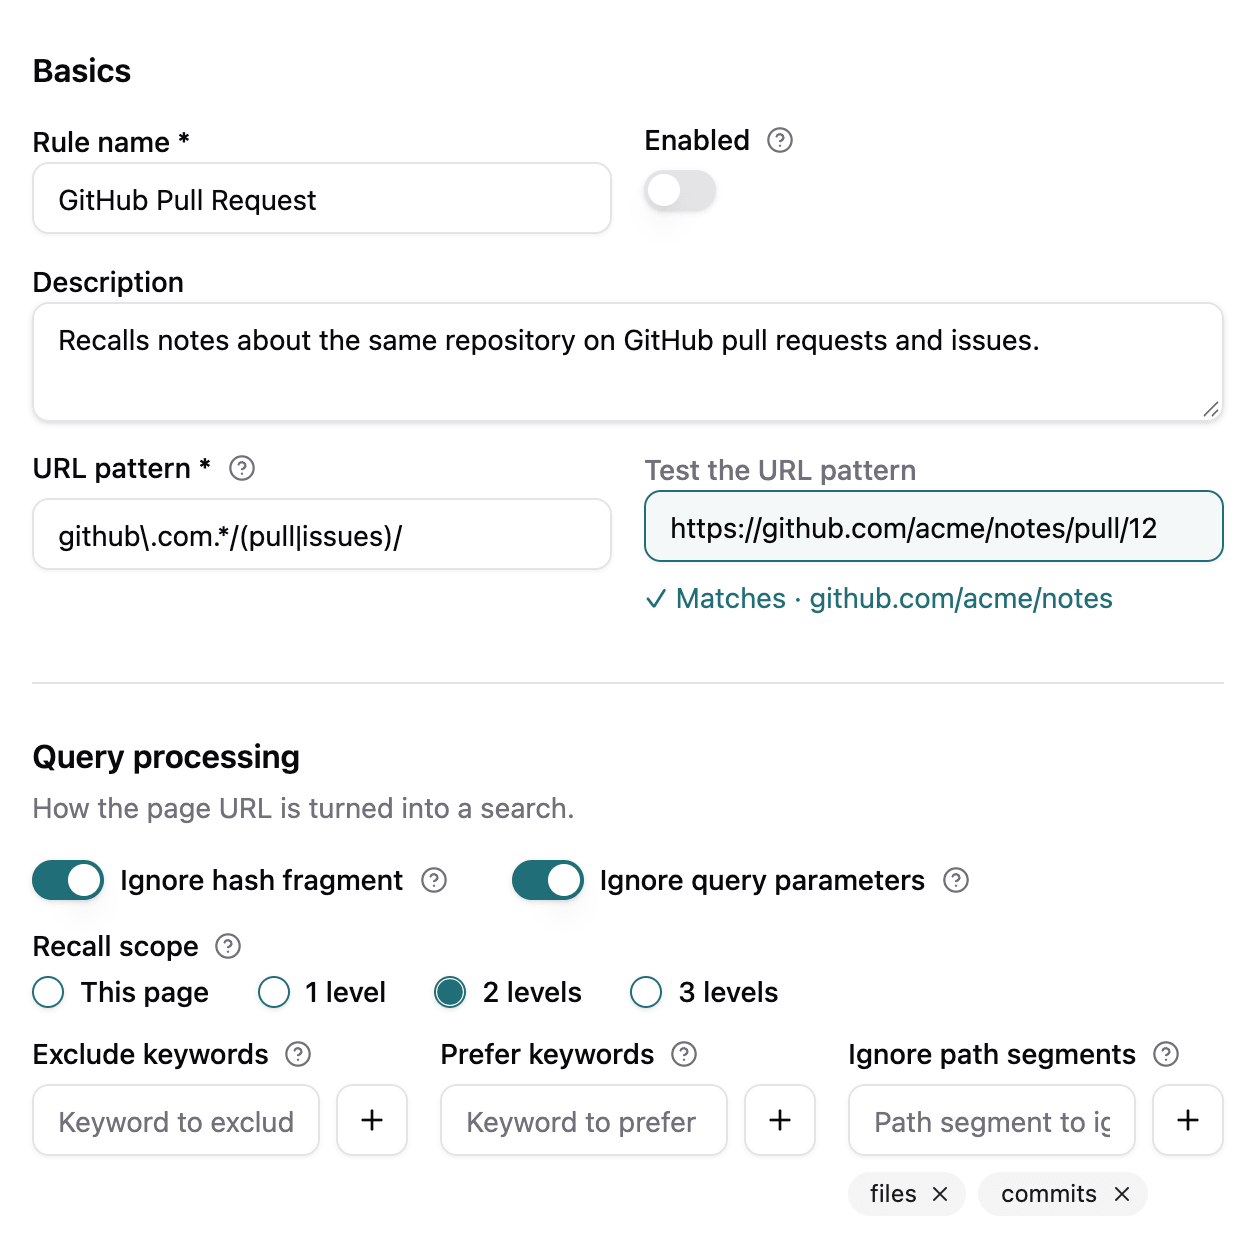
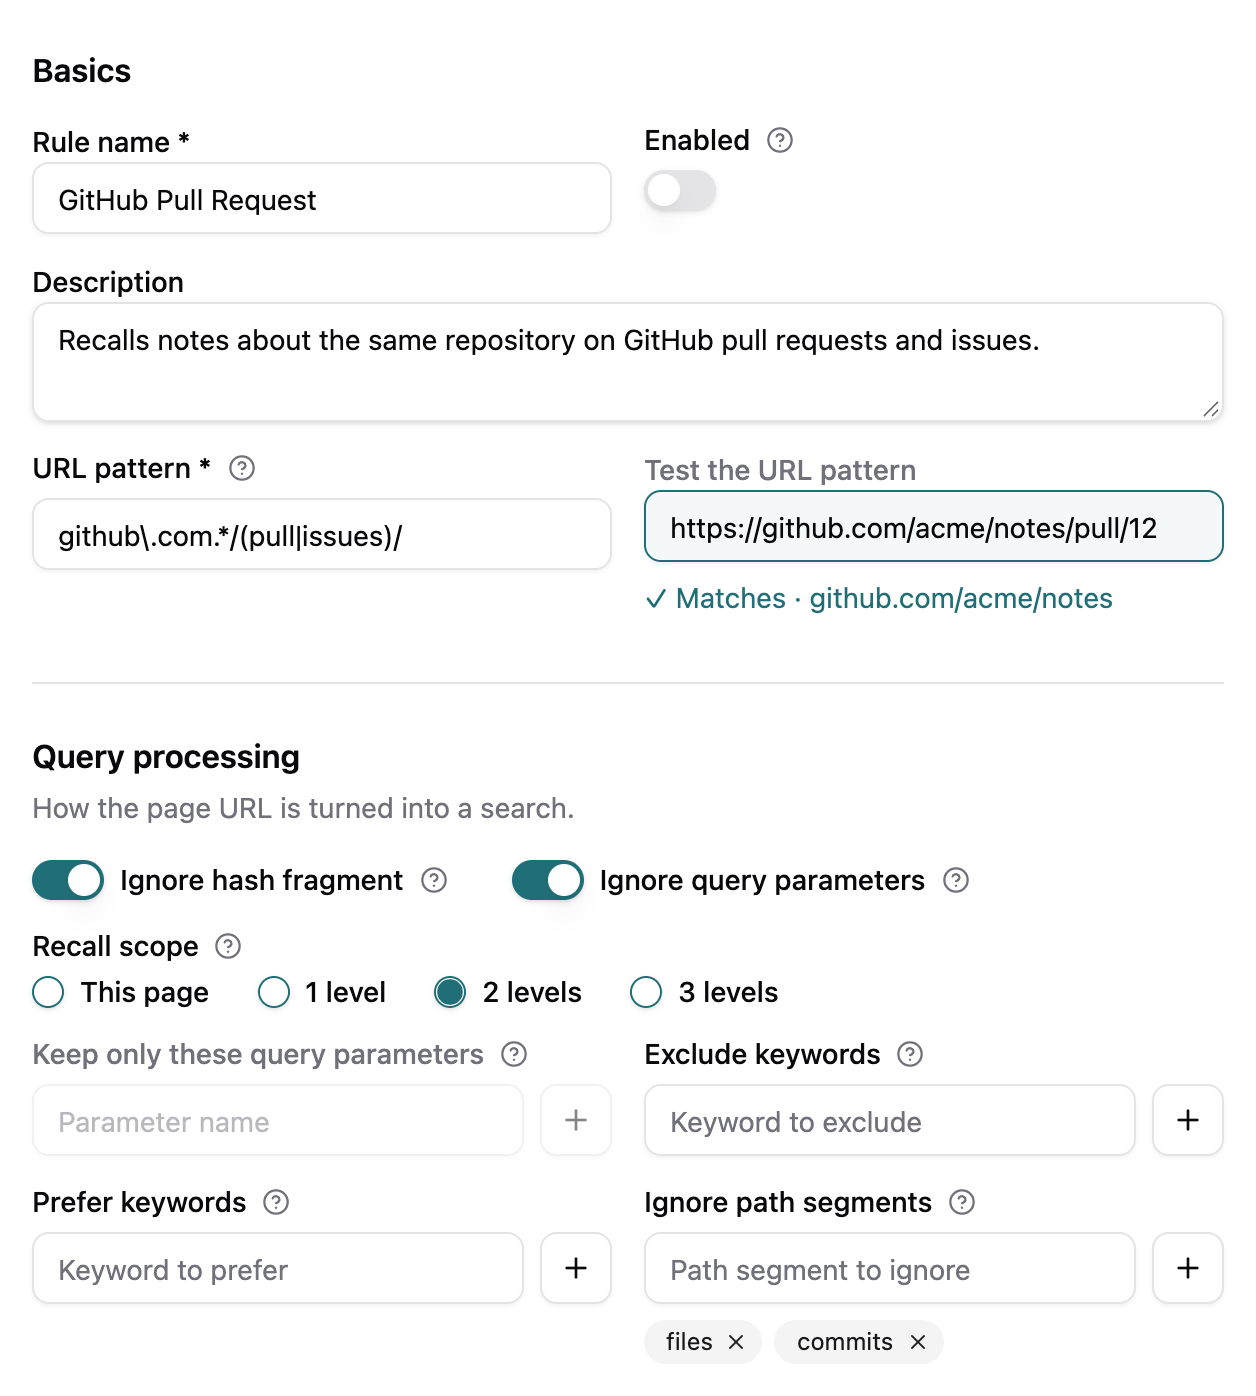
feat(options): edit the query parameter allowlist and show built-in recall rules

diff --git a/src/entrypoints/options/components/RecallRuleForm.tsx b/src/entrypoints/options/components/RecallRuleForm.tsx
@@ -61,6 +61,7 @@ const RecallRuleForm: React.FC<RecallRuleFormProps> = ({
     const [newExcludeKeyword, setNewExcludeKeyword] = useState('');
     const [newIncludeKeyword, setNewIncludeKeyword] = useState('');
     const [newPathSegment, setNewPathSegment] = useState('');
+    const [newKeepParam, setNewKeepParam] = useState('');
     const [newRestrictPage, setNewRestrictPage] = useState('');
     const [newExcludePage, setNewExcludePage] = useState('');
 
@@ -140,7 +141,14 @@ const RecallRuleForm: React.FC<RecallRuleFormProps> = ({
 
     const handleSubmit = (e: React.FormEvent) => {
         e.preventDefault();
-        onSave(formData);
+        // An emptied allowlist is "off", the same as a rule that never had one.
+        const { keepQueryParams, ...queryProcessing } = formData.queryProcessing;
+        onSave({
+            ...formData,
+            queryProcessing: keepQueryParams?.length
+                ? { ...queryProcessing, keepQueryParams }
+                : queryProcessing,
+        });
     };
 
     const urlPatternResult = testUrlPattern();
@@ -159,6 +167,9 @@ const RecallRuleForm: React.FC<RecallRuleFormProps> = ({
         }
     };
     const recallPrefix = scopePreview();
+    const ignoreQuery = formData.queryProcessing.ignoreQueryParams;
+    // Shipped with a built-in rule; not editable here.
+    const urlForms = formData.queryProcessing.urlForms ?? [];
 
     const help = (...lines: string[]) => (
         <Tooltip>
@@ -173,16 +184,17 @@ const RecallRuleForm: React.FC<RecallRuleFormProps> = ({
         </Tooltip>
     );
 
-    const chips = (items: string[], parent: string, field: string) =>
+    const chips = (items: string[], parent: string, field: string, disabled = false) =>
         items.length > 0 && (
-            <div className="flex flex-wrap gap-1.5">
+            <div className={`flex flex-wrap gap-1.5${disabled ? ' opacity-50' : ''}`}>
                 {items.map((item, index) => (
                     <Badge key={index} variant="secondary" className="gap-1 pr-1 font-normal">
                         {item}
                         <button
                             type="button"
                             onClick={() => handleArrayRemove(parent, field, index)}
-                            className="rounded-full p-0.5 hover:bg-foreground/10"
+                            disabled={disabled}
+                            className="rounded-full p-0.5 hover:bg-foreground/10 disabled:pointer-events-none"
                             aria-label={`Remove ${item}`}
                         >
                             <X className="h-3 w-3" />
@@ -198,6 +210,7 @@ const RecallRuleForm: React.FC<RecallRuleFormProps> = ({
         parent: string,
         field: string,
         placeholder: string,
+        disabled = false,
     ) => {
         const add = () => {
             handleArrayAdd(parent, field, value);
@@ -209,6 +222,7 @@ const RecallRuleForm: React.FC<RecallRuleFormProps> = ({
                     value={value}
                     onChange={(e) => setValue(e.target.value)}
                     placeholder={placeholder}
+                    disabled={disabled}
                     onKeyPress={(e) => {
                         if (e.key === 'Enter') {
                             e.preventDefault();
@@ -216,7 +230,7 @@ const RecallRuleForm: React.FC<RecallRuleFormProps> = ({
                         }
                     }}
                 />
-                <Button type="button" variant="outline" size="sm" className="h-9 w-9 shrink-0 p-0" onClick={add} aria-label="Add">
+                <Button type="button" variant="outline" size="sm" className="h-9 w-9 shrink-0 p-0" onClick={add} disabled={disabled} aria-label="Add">
                     <Plus className="h-4 w-4" />
                 </Button>
             </div>
@@ -356,7 +370,15 @@ const RecallRuleForm: React.FC<RecallRuleFormProps> = ({
                     </RadioGroup>
                 </div>
 
-                <div className="grid gap-4 sm:grid-cols-3">
+                <div className="grid gap-4 sm:grid-cols-2">
+                    <div className="space-y-2">
+                        <Label className={`flex items-center gap-2${ignoreQuery ? ' text-muted-foreground' : ''}`}>
+                            Keep only these query parameters
+                            {help('Pages that differ in other parameters count as the same page.', 'e.g. keep "v" on YouTube.')}
+                        </Label>
+                        {listInput(newKeepParam, setNewKeepParam, 'queryProcessing', 'keepQueryParams', 'Parameter name', ignoreQuery)}
+                        {chips(formData.queryProcessing.keepQueryParams || [], 'queryProcessing', 'keepQueryParams', ignoreQuery)}
+                    </div>
                     <div className="space-y-2">
                         <Label className="flex items-center gap-2">
                             Exclude keywords
@@ -382,6 +404,16 @@ const RecallRuleForm: React.FC<RecallRuleFormProps> = ({
                         {chips(formData.queryProcessing.ignorePathSegments, 'queryProcessing', 'ignorePathSegments')}
                     </div>
                 </div>
+                {urlForms.length > 0 && (
+                    <div className="flex flex-wrap items-center gap-1.5">
+                        <Label className="mr-1 text-muted-foreground">Same page under</Label>
+                        {urlForms.map((form) => (
+                            <code key={form} className="rounded bg-muted px-1.5 py-0.5 font-mono text-xs">
+                                {form}
+                            </code>
+                        ))}
+                    </div>
+                )}
             </PageSection>
 
             <PageSection title="Search scope" description="Where in your graph to search.">

diff --git a/src/entrypoints/options/pages/recall-rules-page.tsx b/src/entrypoints/options/pages/recall-rules-page.tsx
@@ -2,7 +2,7 @@ import React, { useState } from 'react';
 import { Button } from '@/components/ui/button';
 import { Switch } from '@/components/ui/switch';
 import { Badge } from '@/components/ui/badge';
-import { RefreshCw, Plus, Edit, Trash2 } from 'lucide-react';
+import { RefreshCw, Plus, Edit, Trash2, RotateCcw } from 'lucide-react';
 import { useRecallRules } from '@/hooks/use-recall-rules';
 import { RecallRuleConfig } from '@/utils/storage';
 import RecallRuleForm from '../components/RecallRuleForm';
@@ -26,6 +26,9 @@ const RecallRulesPage: React.FC = () => {
         refreshRules,
         addRecallRule,
         updateRecallRule,
+        isBuiltin,
+        isOverridden,
+        resetToBuiltin,
     } = useRecallRules();
 
     const [editingRule, setEditingRule] = useState<RecallRuleConfig | null>(null);
@@ -62,6 +65,12 @@ const RecallRulesPage: React.FC = () => {
         }
     };
 
+    const handleReset = async (id: string, name: string) => {
+        if (confirm(`Reset "${name}" to its built-in version?`)) {
+            await resetToBuiltin(id);
+        }
+    };
+
     const handleSave = async (ruleData: Omit<RecallRuleConfig, 'id'>) => {
         try {
             if (editingRule) {
@@ -94,6 +103,9 @@ const RecallRulesPage: React.FC = () => {
         [
             rule.queryProcessing.ignoreHashFragments && 'Ignore hash',
             rule.queryProcessing.ignoreQueryParams && 'Ignore query',
+            !rule.queryProcessing.ignoreQueryParams &&
+                rule.queryProcessing.keepQueryParams?.length &&
+                `Keep: ${rule.queryProcessing.keepQueryParams.join(', ')}`,
             rule.queryProcessing.scopeDepth &&
                 `Scope: ${rule.queryProcessing.scopeDepth} ${rule.queryProcessing.scopeDepth === 1 ? 'level' : 'levels'}`,
             rule.searchScope.journalDateRange?.enabled &&
@@ -117,7 +129,19 @@ const RecallRulesPage: React.FC = () => {
         <PageListRow key={rule.id} className="space-y-2">
             <div className="flex items-start justify-between gap-4">
                 <div className="min-w-0 space-y-0.5">
-                    <div className="text-sm font-medium">{rule.name}</div>
+                    <div className="flex flex-wrap items-center gap-2 text-sm font-medium">
+                        {rule.name}
+                        {isBuiltin(rule.id) && (
+                            <Badge variant="secondary" className="font-normal">
+                                Built-in
+                            </Badge>
+                        )}
+                        {isOverridden(rule.id) && (
+                            <Badge variant="outline" className="font-normal text-muted-foreground">
+                                Modified
+                            </Badge>
+                        )}
+                    </div>
                     {rule.description && (
                         <p className="text-sm text-muted-foreground">{rule.description}</p>
                     )}
@@ -138,15 +162,31 @@ const RecallRulesPage: React.FC = () => {
                     >
                         <Edit className="h-4 w-4" />
                     </Button>
-                    <Button
-                        variant="ghost"
-                        size="sm"
-                        onClick={() => handleDelete(rule.id, rule.name)}
-                        aria-label={`Delete ${rule.name}`}
-                        className="h-8 w-8 p-0 text-muted-foreground hover:text-destructive"
-                    >
-                        <Trash2 className="h-4 w-4" />
-                    </Button>
+                    {isBuiltin(rule.id) ? (
+                        isOverridden(rule.id) ? (
+                            <Button
+                                variant="ghost"
+                                size="sm"
+                                onClick={() => handleReset(rule.id, rule.name)}
+                                aria-label={`Reset ${rule.name}`}
+                                className="h-8 w-8 p-0 text-muted-foreground hover:text-foreground"
+                            >
+                                <RotateCcw className="h-4 w-4" />
+                            </Button>
+                        ) : (
+                            <span className="h-8 w-8" aria-hidden />
+                        )
+                    ) : (
+                        <Button
+                            variant="ghost"
+                            size="sm"
+                            onClick={() => handleDelete(rule.id, rule.name)}
+                            aria-label={`Delete ${rule.name}`}
+                            className="h-8 w-8 p-0 text-muted-foreground hover:text-destructive"
+                        >
+                            <Trash2 className="h-4 w-4" />
+                        </Button>
+                    )}
                 </div>
             </div>
 

diff --git a/src/entrypoints/options/components/RecallRuleForm.test.tsx b/src/entrypoints/options/components/RecallRuleForm.test.tsx
@@ -6,6 +6,7 @@ import { afterEach, describe, expect, it, vi } from 'vitest';
 import { cleanup, fireEvent, render, screen } from '@testing-library/react';
 import RecallRuleForm from './RecallRuleForm';
 import { recallRulesConfig } from '@/utils/storage';
+import { BUILTIN_RECALL_RULES } from '@/utils/recall-builtin-rules';
 
 const input = (placeholder: string) => screen.getByPlaceholderText(placeholder) as HTMLInputElement;
 const type = (placeholder: string, value: string) =>
@@ -76,5 +77,57 @@ describe('RecallRuleForm recall scope', () => {
     fireEvent.click(screen.getByRole('radio', { name: 'This page' }));
     fireEvent.submit(document.querySelector('form')!);
     expect(onSave.mock.calls[0][0].queryProcessing.scopeDepth).toBeUndefined();
+  });
+});
+
+describe('RecallRuleForm query parameter allowlist', () => {
+  afterEach(cleanup);
+
+  const youtube = BUILTIN_RECALL_RULES.find((rule) => rule.id === 'builtin:youtube-video')!;
+  const github = recallRulesConfig.fallback.find((rule) => rule.id === 'github-pr')!;
+  const submit = () => fireEvent.submit(document.querySelector('form')!);
+
+  it('shows the allowlist and the URL forms of a built-in rule and saves them back', () => {
+    const onSave = vi.fn();
+    render(<RecallRuleForm initialRule={youtube} onSave={onSave} onCancel={() => {}} />);
+
+    expect(screen.getByRole('button', { name: 'Remove v' })).toBeTruthy();
+    expect(screen.getByText('youtu.be/{id}')).toBeTruthy();
+
+    type('Parameter name', 'list');
+    add('Parameter name');
+    submit();
+    const saved = onSave.mock.calls[0][0];
+    expect(saved.queryProcessing.keepQueryParams).toEqual(['v', 'list']);
+    expect(saved.queryProcessing.urlForms).toEqual(youtube.queryProcessing.urlForms);
+  });
+
+  it('turns the allowlist off by emptying it', () => {
+    const onSave = vi.fn();
+    render(<RecallRuleForm initialRule={youtube} onSave={onSave} onCancel={() => {}} />);
+
+    fireEvent.click(screen.getByRole('button', { name: 'Remove v' }));
+    submit();
+    expect('keepQueryParams' in onSave.mock.calls[0][0].queryProcessing).toBe(false);
+  });
+
+  it('disables the field while query parameters are ignored', () => {
+    render(<RecallRuleForm initialRule={youtube} onSave={() => {}} onCancel={() => {}} />);
+    expect(input('Parameter name').disabled).toBe(false);
+
+    fireEvent.click(screen.getByRole('switch', { name: /Ignore query parameters/ }));
+    expect(input('Parameter name').disabled).toBe(true);
+  });
+
+  it('saves an old rule without the field without gaining new fields', () => {
+    const onSave = vi.fn();
+    render(<RecallRuleForm initialRule={github} onSave={onSave} onCancel={() => {}} />);
+
+    expect(input('Parameter name').value).toBe('');
+    expect(screen.queryByText('Same page under')).toBeNull();
+    submit();
+    const { queryProcessing } = onSave.mock.calls[0][0];
+    expect('keepQueryParams' in queryProcessing).toBe(false);
+    expect('urlForms' in queryProcessing).toBe(false);
   });
 });

diff --git a/src/entrypoints/options/pages/recall-rules-page.test.tsx b/src/entrypoints/options/pages/recall-rules-page.test.tsx
@@ -1,0 +1,51 @@
+/**
+ * The recall rule list: built-in rules are marked, cannot be deleted, can be
+ * toggled, and an edited one says so and can be reset.
+ */
+import { afterEach, beforeEach, describe, expect, it, vi } from 'vitest';
+import { act, cleanup, fireEvent, render, screen } from '@testing-library/react';
+import { fakeBrowser } from 'wxt/testing';
+import { recallRulesConfig } from '@/utils/storage';
+import RecallRulesPage from './recall-rules-page';
+
+
+const mount = async () => {
+  render(<RecallRulesPage />);
+  await act(async () => {});
+};
+
+describe('RecallRulesPage built-in rules', () => {
+  beforeEach(() => fakeBrowser.reset());
+  afterEach(() => {
+    cleanup();
+    vi.unstubAllGlobals();
+  });
+
+  it('marks built-ins, offers no Delete and no Reset until one is changed', async () => {
+    await mount();
+    expect(screen.getAllByText('Built-in').length).toBeGreaterThanOrEqual(4);
+    expect(screen.queryByRole('button', { name: 'Delete YouTube videos' })).toBeNull();
+    expect(screen.queryByRole('button', { name: 'Reset YouTube videos' })).toBeNull();
+    expect(screen.getByRole('button', { name: 'Edit YouTube videos' })).toBeTruthy();
+    expect(screen.getByText('Keep: v')).toBeTruthy();
+    // A user's own rule keeps its Delete.
+    expect(screen.getAllByRole('button', { name: /^Delete / }).length).toBeGreaterThan(0);
+  });
+
+  it('toggling a built-in marks it modified; Reset brings it back', async () => {
+    vi.stubGlobal('confirm', () => true);
+    await mount();
+
+    await act(async () => {
+      fireEvent.click(screen.getByRole('switch', { name: 'Enable YouTube videos' }));
+    });
+    expect(screen.getByText('Modified')).toBeTruthy();
+    expect((await recallRulesConfig.getValue()).some((r) => r.id === 'builtin:youtube-video')).toBe(true);
+
+    await act(async () => {
+      fireEvent.click(screen.getByRole('button', { name: 'Reset YouTube videos' }));
+    });
+    expect(screen.queryByText('Modified')).toBeNull();
+    expect((await recallRulesConfig.getValue()).some((r) => r.id === 'builtin:youtube-video')).toBe(false);
+  });
+});

diff --git a/tests/e2e/ui-screenshots.spec.ts b/tests/e2e/ui-screenshots.spec.ts
@@ -201,6 +201,12 @@ test.describe('UI screenshots', () => {
       await expect(page.locator('#urlPattern')).toHaveValue('github\\.com.*/(pull|issues)/');
       await shoot(page, 'options-recall-rule-form', scheme);
 
+      // A built-in rule: the query parameter allowlist and the URL forms.
+      await page.getByRole('button', { name: 'Cancel' }).first().click();
+      await page.getByRole('button', { name: 'Edit YouTube videos' }).click();
+      await expect(page.getByRole('button', { name: 'Remove v' })).toBeVisible();
+      await shoot(page, 'options-recall-rule-form-builtin', scheme);
+
       await page.goto(ext.url('options.html#/templates'));
       await expect(page.locator('#template-content')).toBeVisible();
       await shoot(page, 'options-templates', scheme);
